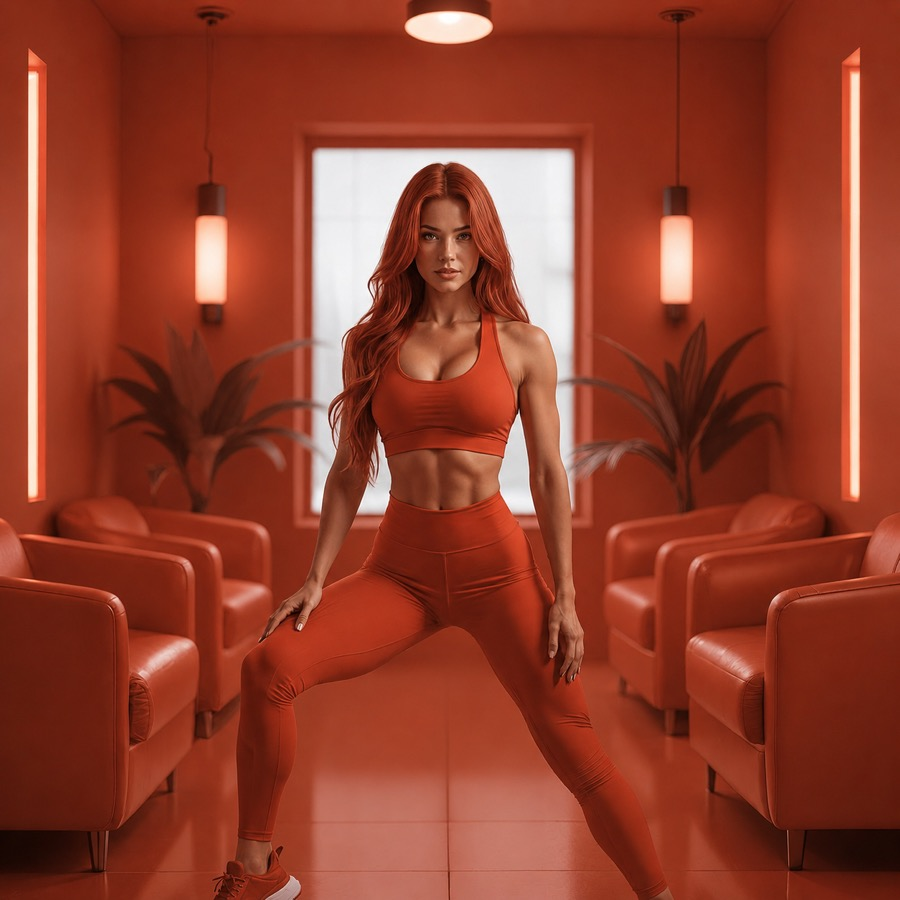
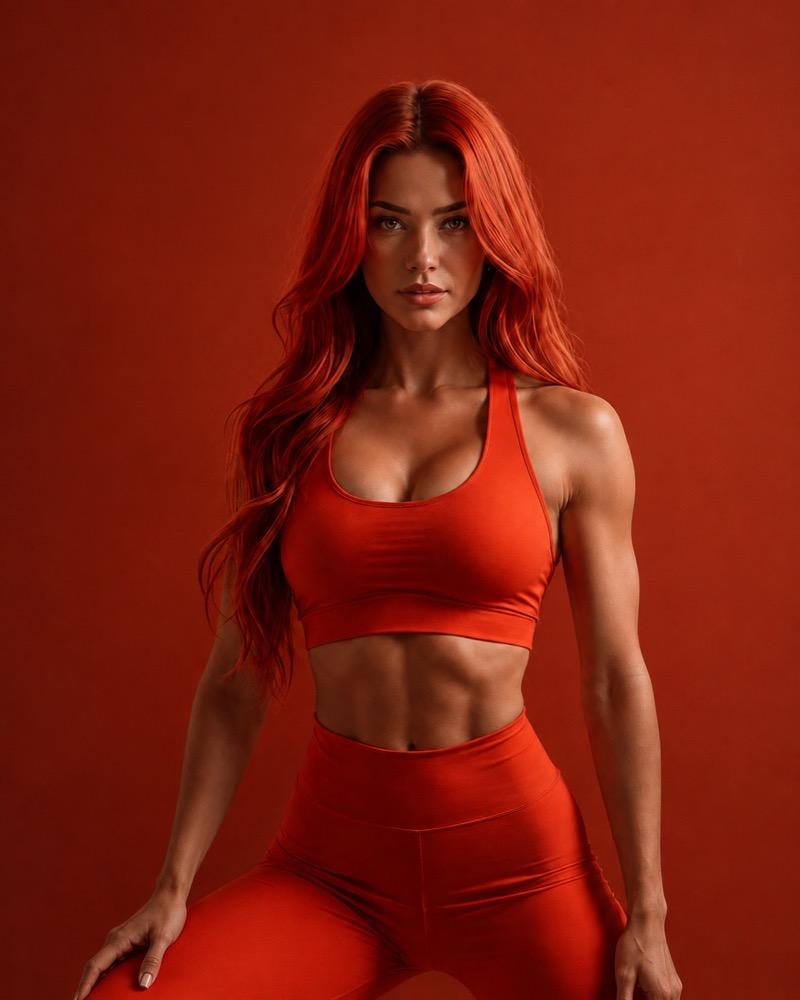
Color Room: swap hero image for the cleaner studio portrait (4:5), no crop
- replaced the room scene with the focused studio portrait Roberto preferred
- slot changed from 1:1 to 4:5 to match the portrait's aspect ratio, so the
  full figure/face is shown without cropping
- still locally hosted (no external request)

diff --git a/website/color-room/index.html b/website/color-room/index.html
@@ -223,7 +223,7 @@
   .hero-portrait{
     width:100%;
     height:auto;
-    aspect-ratio:1/1;
+    aspect-ratio:4/5;
     object-fit:cover;
     border-radius:4px;
     display:block;
@@ -583,7 +583,7 @@
         <a class="scroll-cue" href="#galerie">Zur Galerie <span class="arrow" aria-hidden="true">↓</span></a>
       </div>
       <div class="hero-aside reveal">
-        <img class="hero-portrait" src="./images/hero-portrait.jpg" alt="Farbstudie in Terrakotta — monochrome Rauminszenierung" loading="lazy" width="900" height="900">
+        <img class="hero-portrait" src="./images/hero-portrait.jpg" alt="Farbstudie in Terrakotta — monochromes Porträt" loading="lazy" width="800" height="1000">
         <p>Freischaffende Fotografin und Malerin mit Fokus auf Farbe, Licht und Stille — tätig seit [Jahr] in [Stadt].</p>
       </div>
     </div>